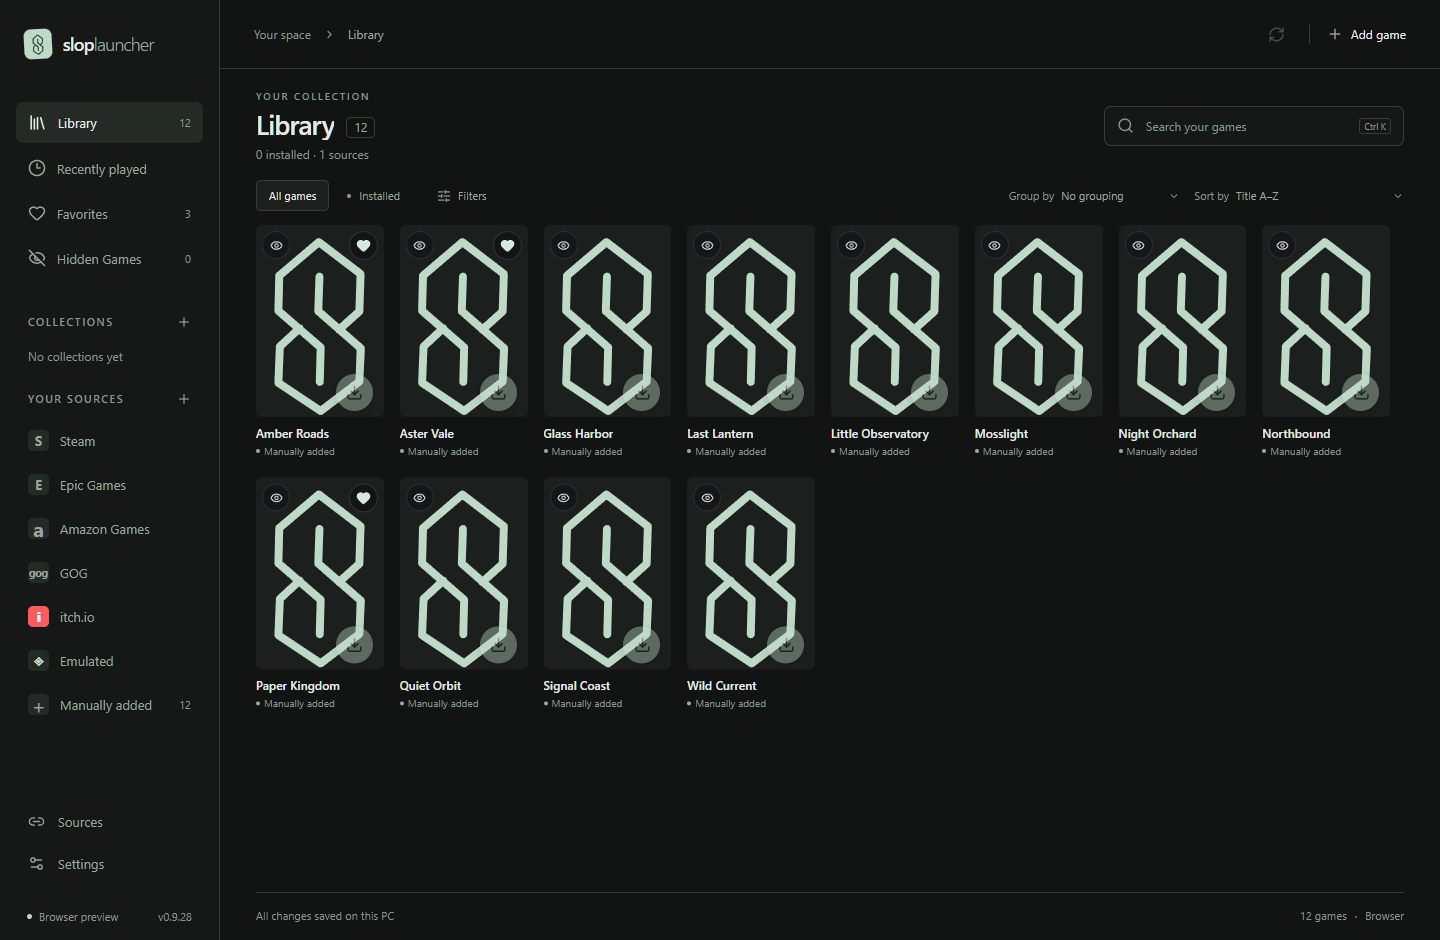
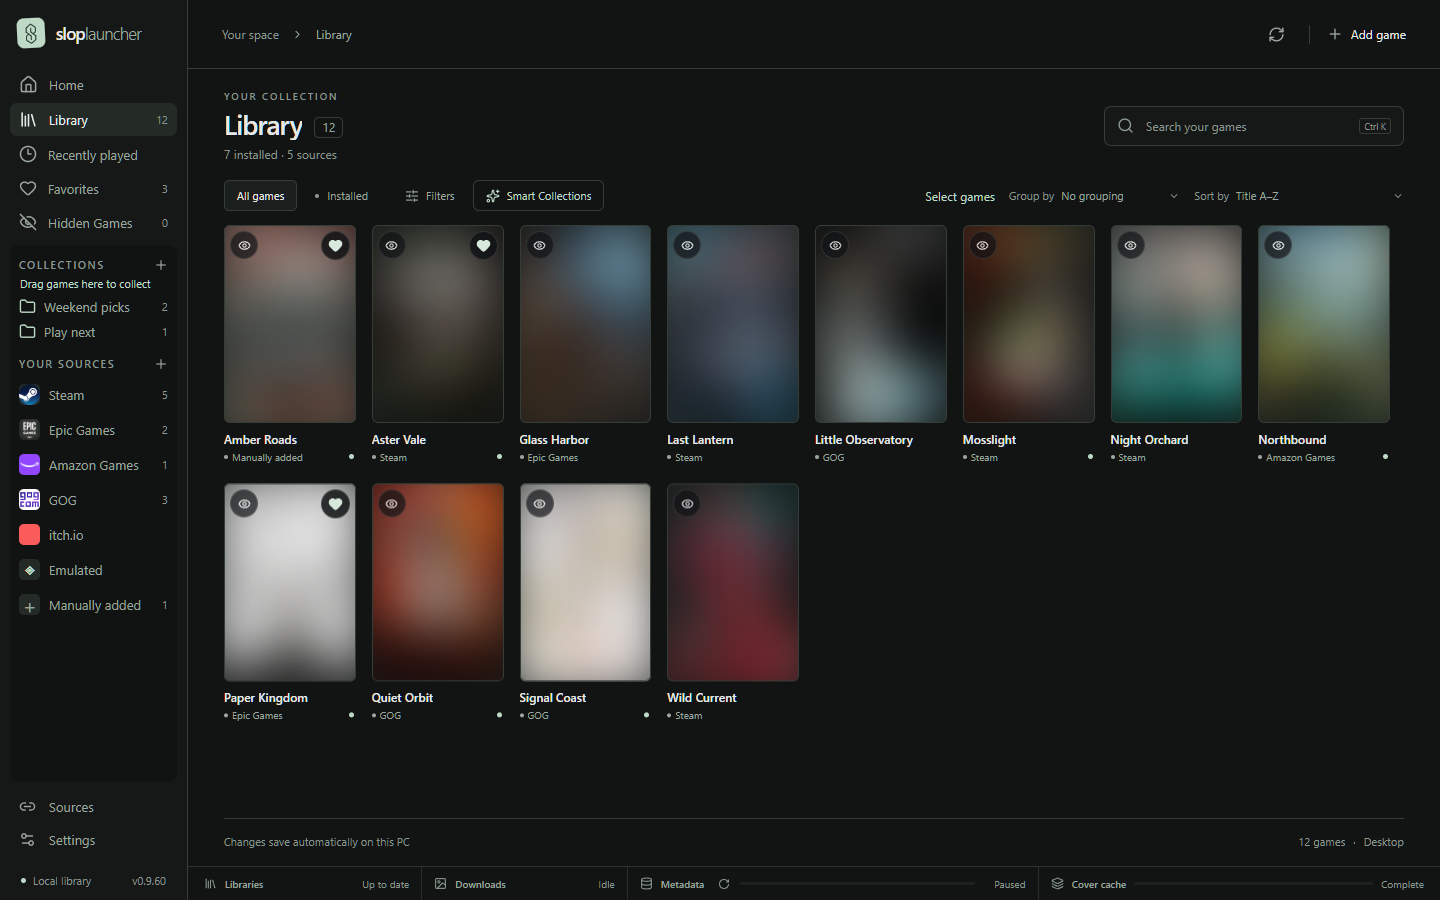
Refresh library screenshot

diff --git a/README.md b/README.md
@@ -18,8 +18,8 @@ SlopLauncher brings your owned games, installed games, and manually added titles
 
 Built around responsive navigation, local persistence, and a quiet interface. **Early development:** expect rough edges and changing third-party integrations. There is no signed installer or automatic updater yet.
 
-![SlopLauncher library with fictional sample titles and original placeholder artwork](docs/media/library.png)
-*Actual application UI with fictional sample games and original placeholder covers. No account data, scraped metadata, or downloaded game artwork is included in this repository.*
+![SlopLauncher library with fictional sample titles and blurred cover artwork](docs/media/library.png)
+*Current application UI with fictional sample titles and blurred covers from a private library. No account data or real game titles are shown.*
 
 ## Yes, it is entirely vibe coded
 
